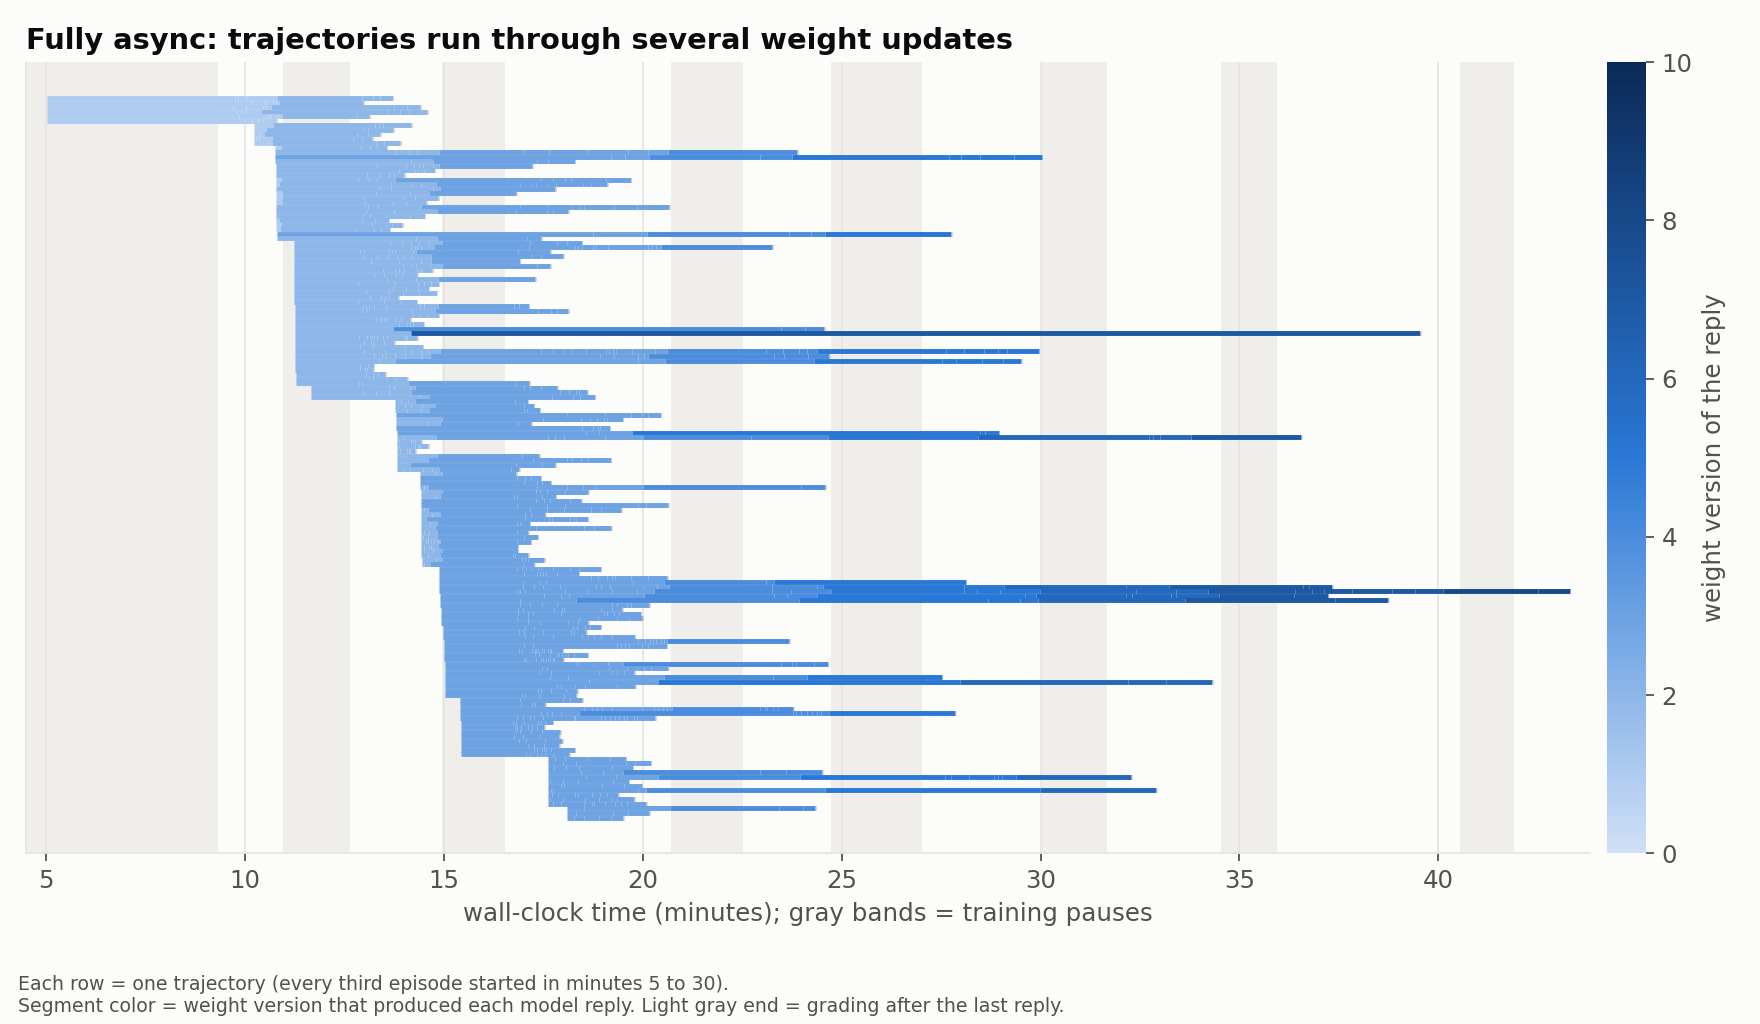
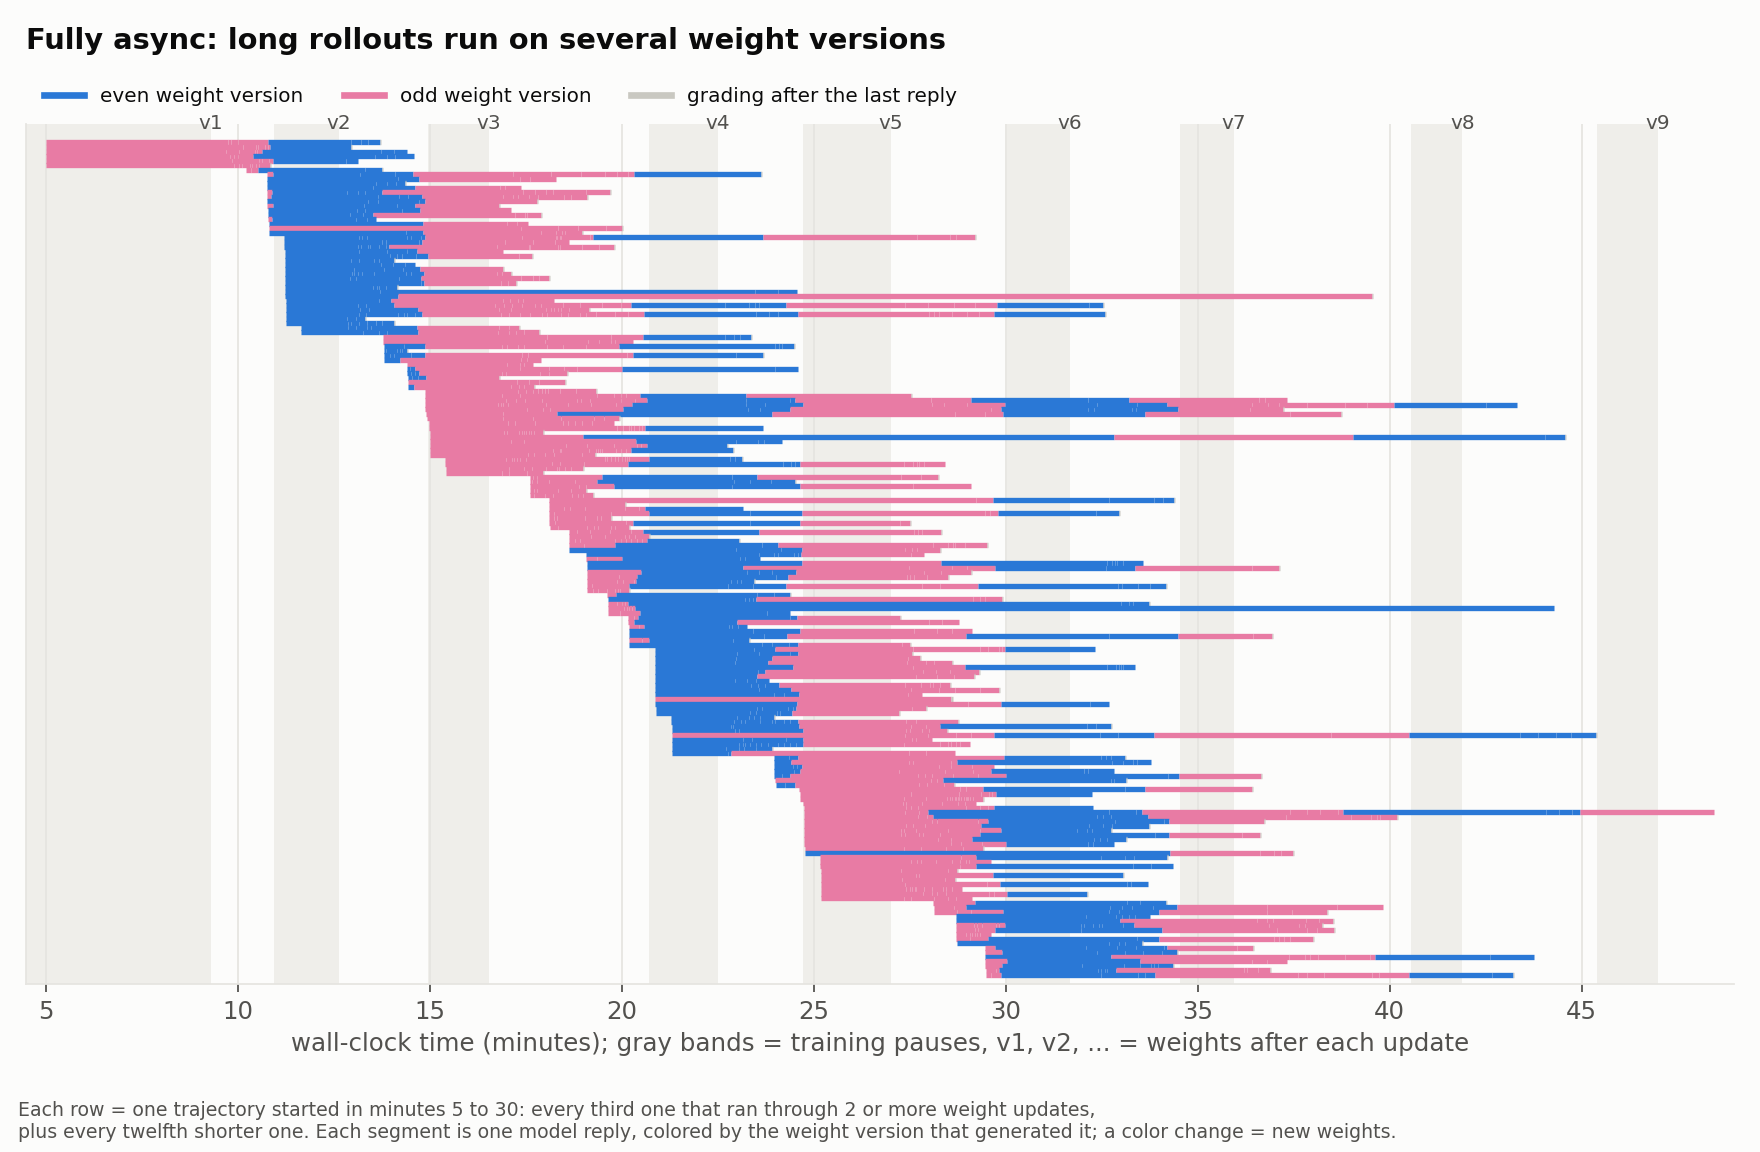
rl-infra: trajectory timeline with per-version colors and update labels

diff --git a/rl-infra/async-results/README.md b/rl-infra/async-results/README.md
@@ -13,7 +13,7 @@ compilation in both runs): 205 vs 102 prompt groups per hour.*
 
 ![Figure 2](trajectory_timeline.png)
 
-*Figure 2. Fully async: one row per trajectory, colored by the weight version that produced each model
+*Figure 2. Fully async: one row per trajectory; each segment is one model reply, colored by the weight version that generated it (alternating blue and pink, labels v1 to v9 at each update). A color change inside a row means the rollout continued on new weights. 78% of finished episodes were generated by two or more weight versions; the longest ran through 7 updates.*
 reply; gray bands are training pauses. 78% of finished episodes were generated by two or more weight
 versions; the longest ran through 7 updates.*
 
